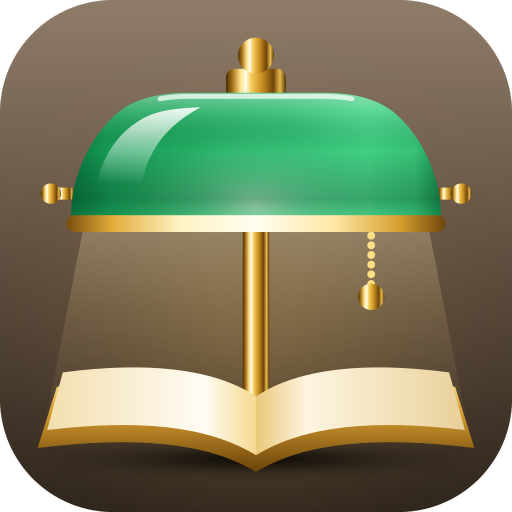
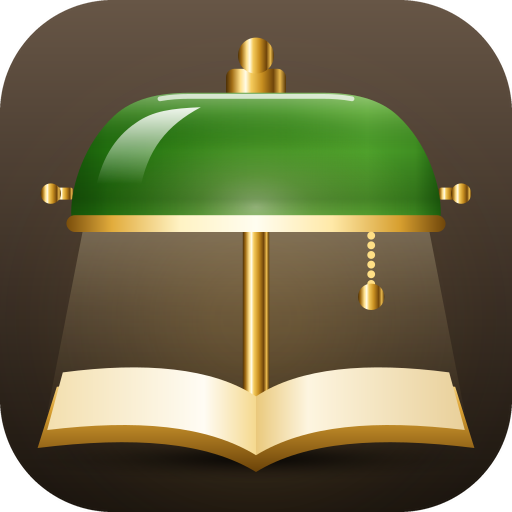
BF-19: Lampengrün gelblicher und dunkler, Grund dunkler

diff --git a/frontend/src/lib/schale/Logo.svelte b/frontend/src/lib/schale/Logo.svelte
@@ -1,6 +1,6 @@
 <!-- Das Zeichen der App, wie symbole/tab.svg -->
 <svg aria-hidden="true" viewBox="0 0 64 64">
-<defs><linearGradient id="zeichen-s" x1="1" y1="0" x2="0" y2="1"><stop offset="0" stop-color="#5fe3a0"/><stop offset=".5" stop-color="#1dae61"/><stop offset="1" stop-color="#077039"/></linearGradient><linearGradient id="zeichen-b" x1="0" y1="0" x2="1" y2="0"><stop offset="0" stop-color="#ffe9b4"/><stop offset=".5" stop-color="#fffdf6"/><stop offset="1" stop-color="#ffe9b4"/></linearGradient><linearGradient id="zeichen-m" x1="0" y1="0" x2="1" y2="0"><stop offset="0" stop-color="#b87a12"/><stop offset=".4" stop-color="#ffe694"/><stop offset="1" stop-color="#d1931f"/></linearGradient></defs>
+<defs><linearGradient id="zeichen-s" x1="1" y1="0" x2="0" y2="1"><stop offset="0" stop-color="#7cc24b"/><stop offset=".5" stop-color="#3c9320"/><stop offset="1" stop-color="#1c5f0c"/></linearGradient><linearGradient id="zeichen-b" x1="0" y1="0" x2="1" y2="0"><stop offset="0" stop-color="#ffe9b4"/><stop offset=".5" stop-color="#fffdf6"/><stop offset="1" stop-color="#ffe9b4"/></linearGradient><linearGradient id="zeichen-m" x1="0" y1="0" x2="1" y2="0"><stop offset="0" stop-color="#b87a12"/><stop offset=".4" stop-color="#ffe694"/><stop offset="1" stop-color="#d1931f"/></linearGradient></defs>
 <g stroke="#2a1d10" stroke-width="3.4" stroke-linejoin="round">
 <path d="M29 29H35V50H29Z" fill="url(#zeichen-m)"/>
 <path d="M27 4H37V11H27Z" fill="url(#zeichen-m)"/>
